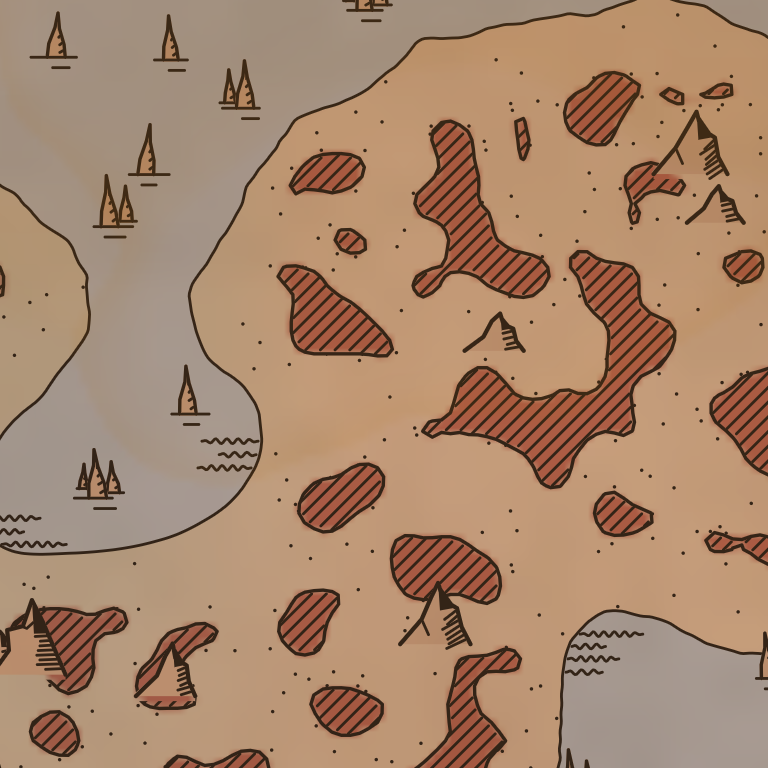
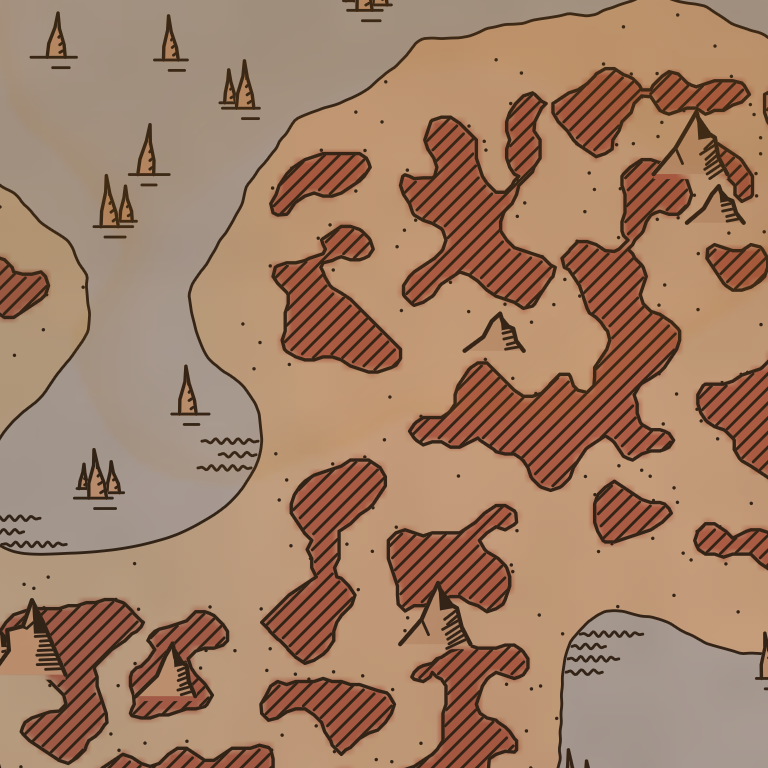
Draw Ashlands lava from where the game stops growing trees
The game reads the lava weight three ways: it burns over 0.6, no cliff
stands over 0.5 and no Ashlands tree grows over 0.2. Drawing from 0.5
with two blurs kept about 15% of demoo's Ashlands as lava and melted
the thin veins, where lava ground in game reads as about a quarter of
the land. Lava is now drawn from 0.2 with one blur; the large fields the
crags keep off still use 0.5.

diff --git a/src/Ink/Woods.cs b/src/Ink/Woods.cs
@@ -20,7 +20,15 @@ namespace Atlas
         // over large fBm patches, WorldGenerator.GetAshlandsHeight), so at 110 cells and four
         // blurs the atlas kept only about 5% of the Ashlands as lava where the game has 18%.
         private const int MinLava = 12;
-        private const int LavaBlurPasses = 2;
+        private const int LavaBlurPasses = 1;
+        // The mask's lava weight (0-255) from which ground is drawn as lava: 0.2, where the game
+        // stops growing its Ashlands trees (tree_ashlands1-4 take only a vegetation mask up to
+        // 0.2). It burns from 0.6 (Heightmap.IsLava), but the ground between is the lava fields'
+        // crust and veins; at 0.5 and two blurs the atlas drew about 15% of demoo's Ashlands as
+        // lava, where the game's lava ground is about a quarter.
+        private const int LavaWeight = 51;
+        // The large fields keep the old reading (over 0.5), so the crags stand where they did.
+        private const int MajorLavaWeight = 127;
         // The large lava fields alone, which crags keep their bases off (InkPainter.MajorLavaAt):
         // with every pool counted, the Ashlands' high ground had little room left for a base.
         // Their bodies cover the pools under them (Glyphs.AshBody).
@@ -59,12 +67,12 @@ namespace Atlas
 
         // The Ashlands' lava fields as a smooth field like the woods' (edge at 0.5), from vanilla's
         // lava mask (blue on Ashlands land), so they can be outlined and filled as shapes.
-        public static float[] BuildLava(WorldSource world) => BuildLava(world, MinLava, LavaBlurPasses);
+        public static float[] BuildLava(WorldSource world) => BuildLava(world, LavaWeight, MinLava, LavaBlurPasses);
 
         // The large lava fields only, as a field like BuildLava's.
-        public static float[] BuildMajorLava(WorldSource world) => BuildLava(world, MajorLava, MajorLavaBlurPasses);
+        public static float[] BuildMajorLava(WorldSource world) => BuildLava(world, MajorLavaWeight, MajorLava, MajorLavaBlurPasses);
 
-        private static float[] BuildLava(WorldSource world, int minCells, int blurPasses)
+        private static float[] BuildLava(WorldSource world, int weight, int minCells, int blurPasses)
         {
             int size = world.m_size;
             var lava = new bool[size * size];
@@ -72,10 +80,11 @@ namespace Atlas
             for (int i = 0; i < lava.Length; i++)
             {
                 land[i] = world.m_height[i] > world.m_waterLevel;
-                lava[i] = land[i] && world.m_biome[i] == Land.Ashlands && world.m_lava[i] > 127;
+                lava[i] = land[i] && world.m_biome[i] == Land.Ashlands && world.m_lava[i] > weight;
             }
-            // Only specks and pinholes too small to draw are dropped, then blurred as the woods
-            // are, so the traced edge runs as a curve instead of 12 m stairs.
+            // Only specks and pinholes too small to draw are dropped, then blurred once, so the
+            // traced edge runs as a curve instead of 12 m stairs while veins a pixel or two wide
+            // survive (two blurs melted them below the edge).
             Clean(lava, land, size, value: true, minCells);
             Clean(lava, land, size, value: false, minCells);
             var field = new float[size * size];

diff --git a/src/Ink/InkCache.cs b/src/Ink/InkCache.cs
@@ -18,7 +18,7 @@ namespace Atlas
     internal static class InkCache
     {
         private const int Magic = 0x534C5441; // "ATLS"
-        private const int Version = 13;
+        private const int Version = 14;
         // A file never holds more sea illustrations than this; more means it is damaged.
         private const int MostSeaMarks = 256;
         // Nor more marks of a kind (trees, glyphs, wave strokes) than this.

diff --git a/CLAUDE.md b/CLAUDE.md
@@ -655,9 +655,13 @@ Stack, build, verification and git workflow are shared by all mods: see `../CLAU
   mask's blue on Ashlands land is the lava weight of `GetAshlandsHeight` (cheap: 2 octaves of
   the fine cellular crackle instead of 3), large fBm patches at 0.01/m past `LerpStep(0.7, 1)`,
   squared, overlay-blended with the crackle, gated to ground over about 4 m above the water and
-  sunk 2-11 m. `Woods.BuildLava` takes blue over 127 and drops only patches and holes under
-  `MinLava` 12 cells, blurred twice as the woods are; at 110 cells and four blurs the veined
-  lava came out at about 5% of Ashlands land where vanilla has 18% (the demoo world). Downloaded
+  sunk 2-11 m. The game reads the weight three ways: it burns over 0.6 (`Heightmap.IsLava`),
+  no cliff stands over 0.5 and no Ashlands tree over 0.2 (their vegetation-mask windows).
+  `Woods.BuildLava` draws lava from 0.2 (`LavaWeight` 51), the lava ground's edge as the game's
+  own trees see it, and drops only patches and holes under `MinLava` 12 cells, blurred once so
+  veins a pixel or two wide survive. On demoo's Ashlands: over 0.6 16.5% of the land, over 0.5
+  18.2%, over 0.2 26.5%; drawn now about 24% (it was 5% at 110 cells and four blurs, then 15%
+  at 0.5, 12 cells and two blurs; the user saw more lava in game than either). Downloaded
   seed maps (valheim-map.world) glow over far more of the Ashlands than the mask; they are no
   measure of lava.
   **What the game stands in the Ashlands** (read from the `d59cfac` SoftRef bundle's
